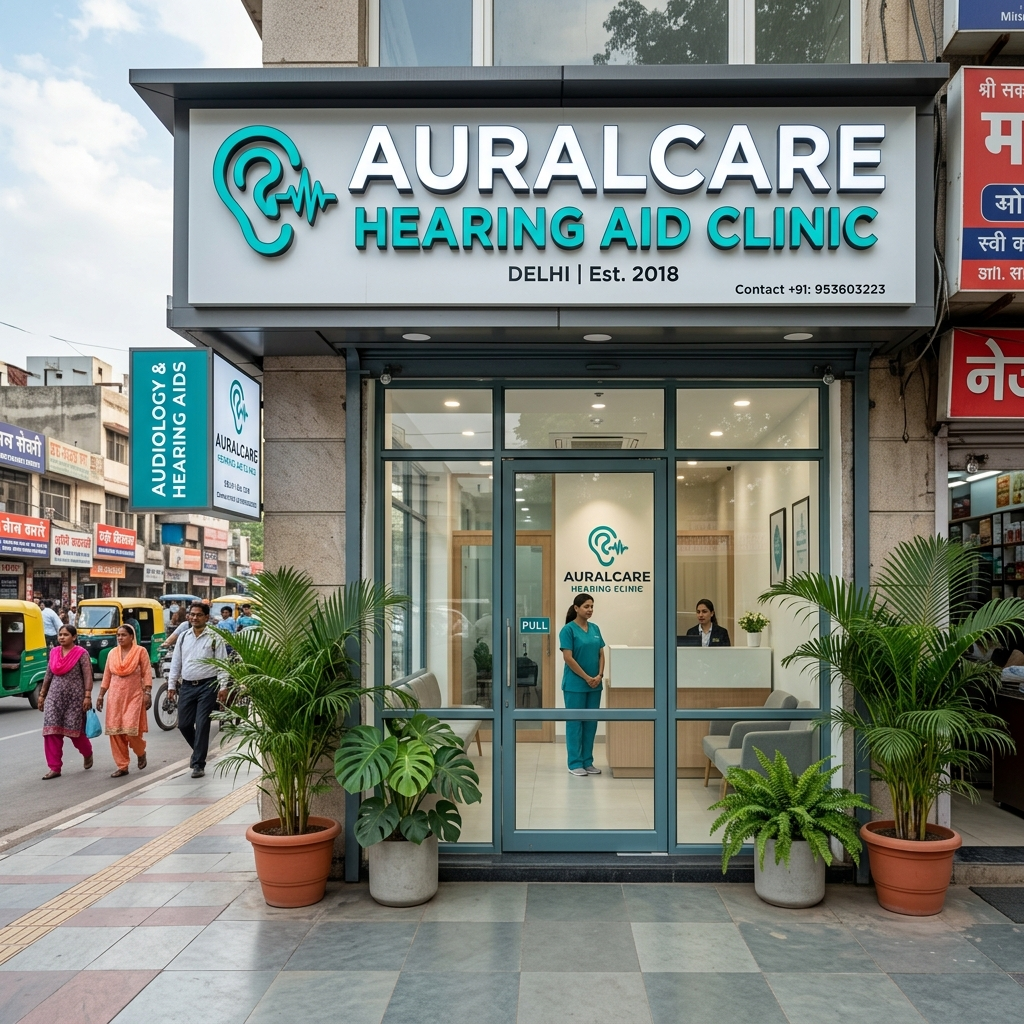
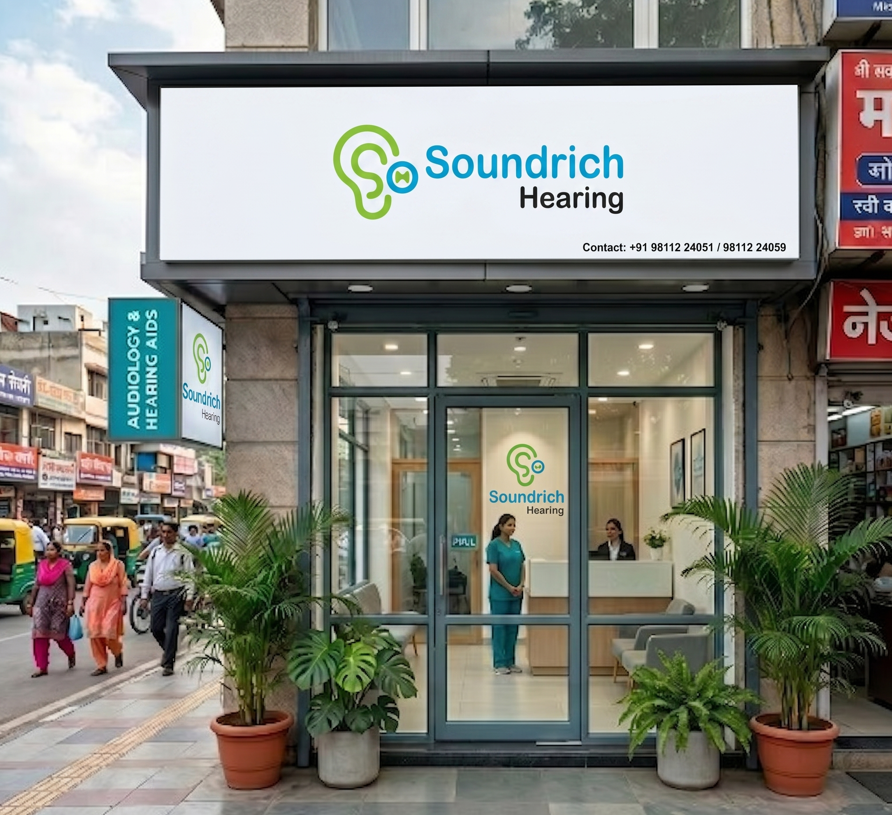
Update clinic images and final UI adjustments

diff --git a/index.html b/index.html
@@ -151,7 +151,7 @@
 
       <div class="hero-visual reveal reveal-d2" style="padding: 8px 8px 8px 0;">
         <div class="hero-img-wrap" style="position: relative; width: 100%; border-radius: 20px; z-index: 1;">
-          <img src="images/main-clinic-banner.jpeg" alt="Soundrich Hearing Clinic Reception" style="width: 100%; height: auto; border-radius: 20px; box-shadow: 0 20px 40px rgba(0,0,0,0.2);" loading="eager" fetchpriority="high">
+          <img src="images/office-1.png" alt="Soundrich Hearing Clinic Reception" style="width: 100%; height: auto; border-radius: 20px; box-shadow: 0 20px 40px rgba(0,0,0,0.2);" loading="eager" fetchpriority="high">
 
           <div class="hero-mini-cards" style="position: absolute; top: 8px; right: 8px; display: flex; flex-direction: column; gap: 5px; z-index: 2;">
             <div class="mini-card" style="background: rgba(255,255,255,0.96); color: var(--charcoal); padding: 5px 9px; border-radius: 5px; font-size: 0.68rem; font-weight: 600; box-shadow: 0 2px 6px rgba(0,0,0,0.12); display: flex; align-items: center; gap: 5px; border: 1px solid rgba(255,255,255,0.9); backdrop-filter: blur(8px);">
@@ -858,7 +858,7 @@
         <!-- Ahmedabad -->
         <div class="clinic-card reveal reveal-d1" onclick="openClinicModal('Ahmedabad Branch', 'Gujarat', 'Shree Narnarayan Place, Paldi, Ahmedabad - 380006', '4.7', 'https://www.google.com/maps/embed?pb=!1m18!1m12!1m3!1d3671.0!2d72.5!3d23.0!2m3!1f0!2f0!3f0!3m2!1i1024!2i768!4f13.1!3m3!1m2!1s0x395e84f682855555%3A0x6b876c1234567890!2sAhmedabad!5e0!3m2!1sen!2sin!4v1620000000000!5m2!1sen!2sin', 'https://soundrichhearing.com/wp-content/uploads/2022/10/Brain-Evoked-Response-Audiometry-BERA.webp', '10:00 AM - 07:30 PM')">
           <div class="cc-img-wrap">
-            <img src="https://soundrichhearing.com/wp-content/uploads/2022/10/Brain-Evoked-Response-Audiometry-BERA.webp" alt="Ahmedabad Clinic">
+            <img src="images/main-clinic-banner.jpeg" alt="Ahmedabad Clinic">
           </div>
           <div class="cc-body">
             <div class="cc-rating">
